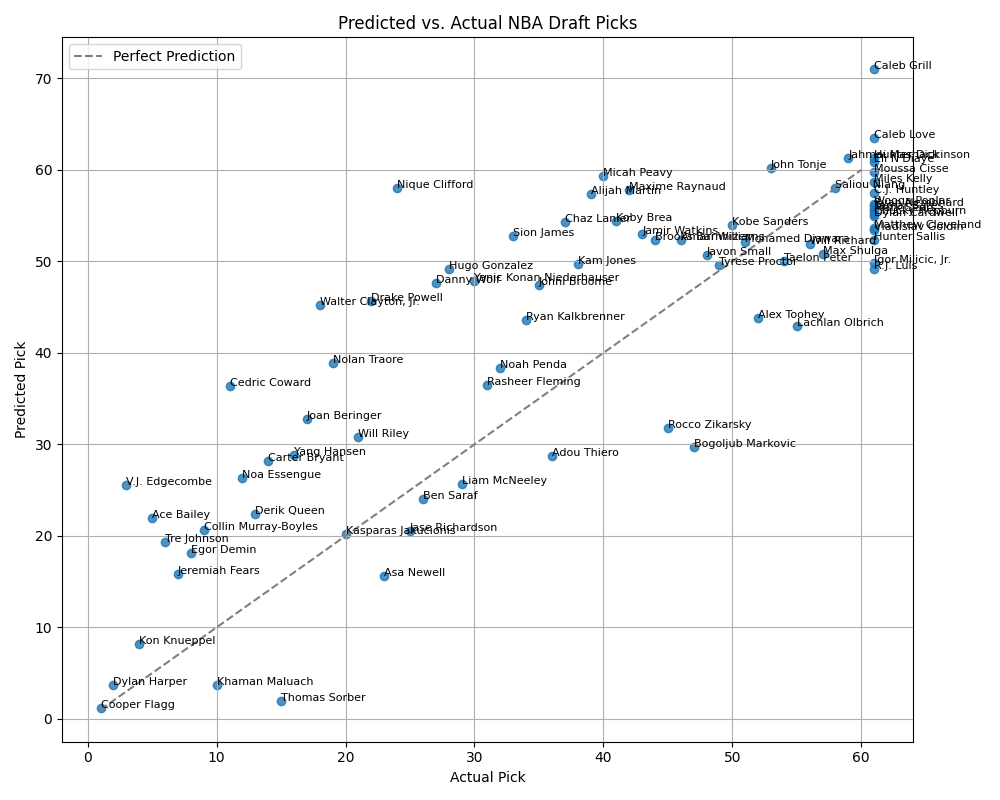
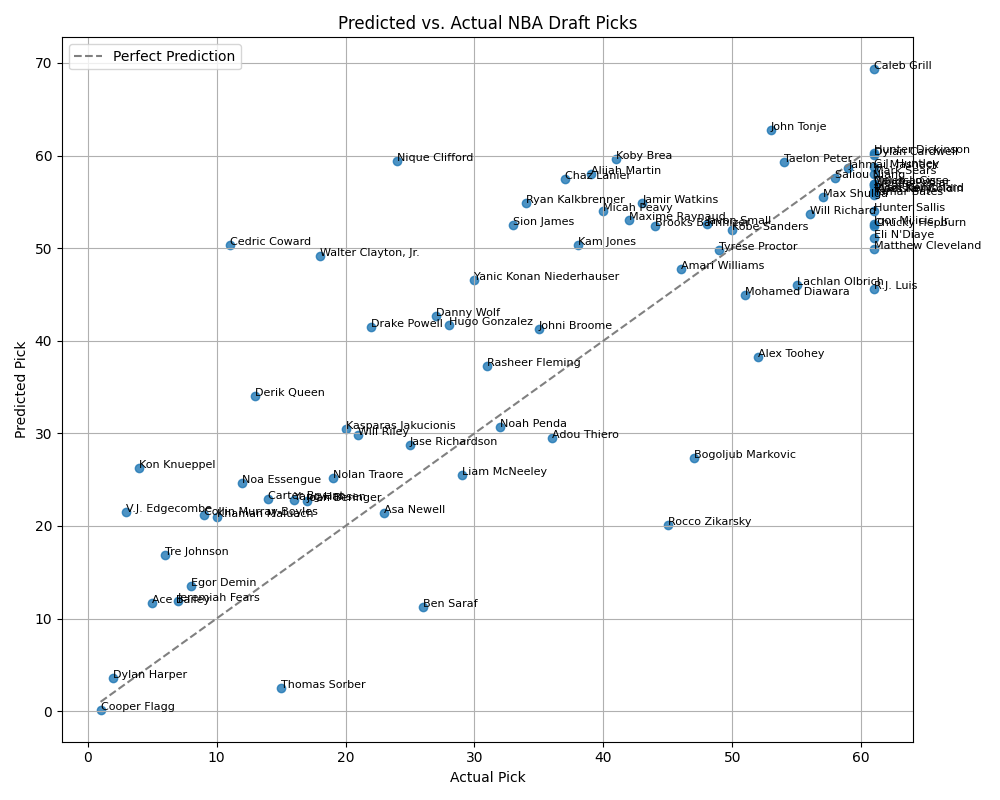
fix how training and validation error is done

diff --git a/neural-network/neural_network_model.py b/neural-network/neural_network_model.py
@@ -284,17 +284,27 @@ def train_model(model: nn.Module,
                 optimizer.step()
                 train_loss += loss.item()
 
-        # Validation phase
+        # Calculate training error on current subset
         model.eval()
+        train_subset_loss = 0.0
+        with torch.no_grad():
+            for batch_X, batch_y in subset_train_loader:
+                batch_X, batch_y = batch_X.to(device, non_blocking=True), batch_y.to(
+                    device, non_blocking=True)
+                outputs = model(batch_X)
+                train_subset_loss += criterion(outputs,
+                                               batch_y.view(-1, 1)).item()
+
+        # Calculate validation error on the whole validation set
         val_loss = 0.0
         with torch.no_grad():
             for batch_X, batch_y in val_loader:
                 batch_X, batch_y = batch_X.to(device, non_blocking=True), batch_y.to(
-                    device, non_blocking=True)  # Move data to GPU
+                    device, non_blocking=True)
                 outputs = model(batch_X)
                 val_loss += criterion(outputs, batch_y.view(-1, 1)).item()
 
-        train_losses.append(train_loss / len(subset_train_loader))
+        train_losses.append(train_subset_loss / len(subset_train_loader))
         val_losses.append(val_loss / len(val_loader))
         train_sizes.append(size)
 
